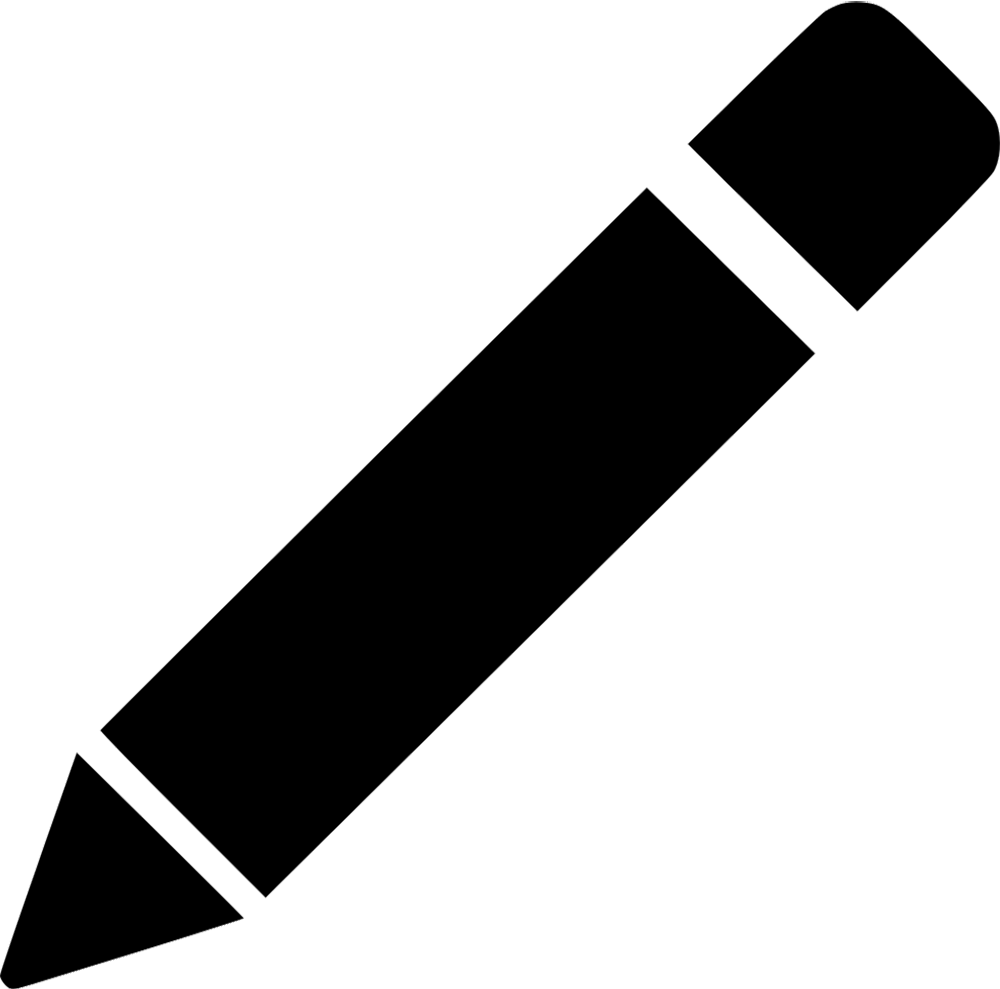
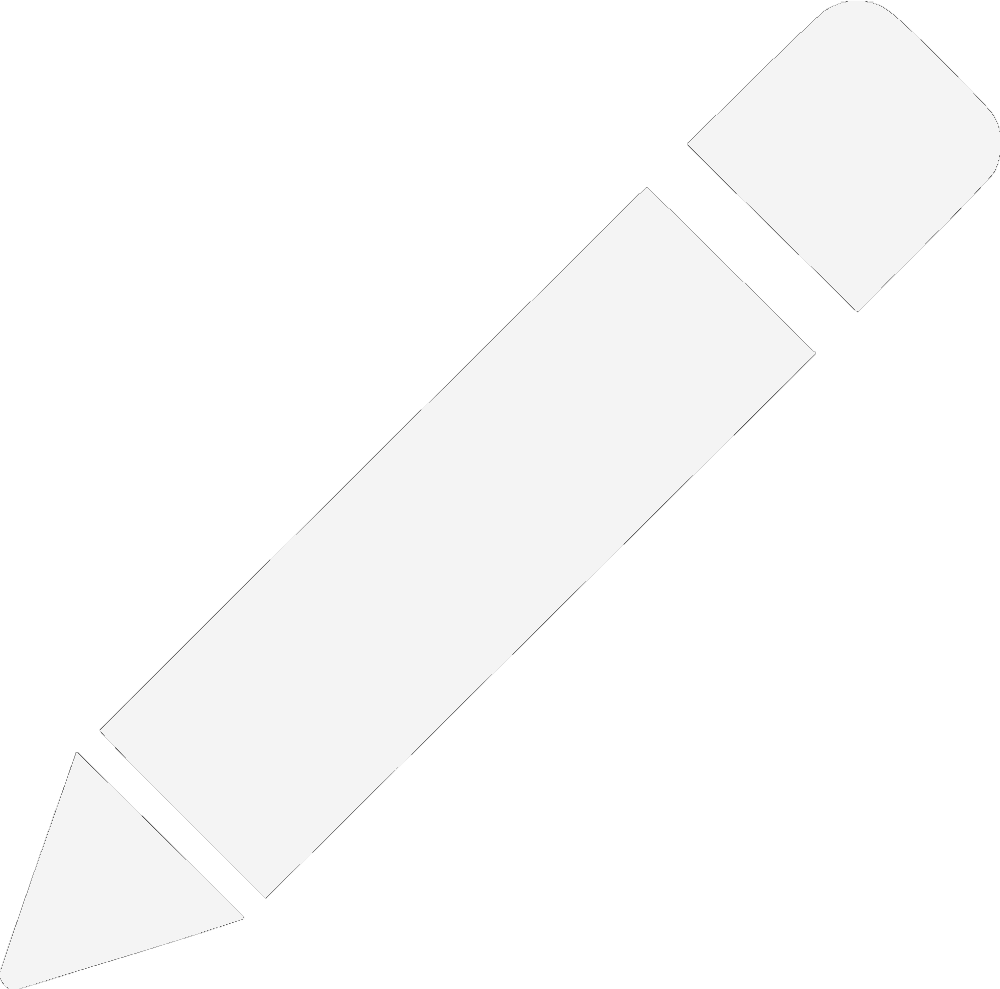
Notes Overlay added

Changed region(s): [[0.0, 0.182, 0.837, 1.0], [0.682, 0.0, 1.0, 0.3337]]

diff --git a/frontend/src/shared/components/Header.tsx b/frontend/src/shared/components/Header.tsx
@@ -1,4 +1,4 @@
-import React, { useEffect, useState } from 'react';
+import React, { useEffect, useState, useRef } from 'react';
 import './Header.scss';
 import { Link, useLocation } from 'react-router-dom';
 import { fetchCurrentUser, changeGuestName } from '../api/draftData';
@@ -47,6 +47,17 @@ function Header() {
   const [newGuestName, setNewGuestName] = useState('');
   const [nameError, setNameError] = useState<string | null>(null);
   const [changingName, setChangingName] = useState(false);
+  const [showNotes, setShowNotes] = useState(false);
+  const [notes, setNotes] = useState('');
+  const [fontSize, setFontSize] = useState(16);
+  const editorRef = useRef<HTMLDivElement>(null);
+
+  const [modalPos, setModalPos] = useState({ x: 0, y: 0 });
+  const [modalSize, setModalSize] = useState({ width: 560, height: 640 });
+  const [isDragging, setIsDragging] = useState(false);
+  const [isResizing, setIsResizing] = useState(false);
+  const [dragOffset, setDragOffset] = useState({ x: 0, y: 0 });
+
   const [isAuctionSoundMuted, setIsAuctionSoundMuted] = useState<boolean>(() => {
     if (typeof window === 'undefined') {
       return true;
@@ -60,6 +71,104 @@ function Header() {
     return localStorage.getItem(HEADER_PINNED_KEY) !== 'false';
   });
   const [isMobileMenuOpen, setIsMobileMenuOpen] = useState(false);
+
+  useEffect(() => {
+    if (user?.user_id) {
+      const savedNotes = localStorage.getItem(`user_notes_${user.user_id}`);
+      setNotes(savedNotes || '');
+
+      const savedFontSize = localStorage.getItem(`user_notes_font_size_${user.user_id}`);
+      if (savedFontSize) {
+        setFontSize(parseInt(savedFontSize, 10));
+      }
+
+      const savedPos = localStorage.getItem(`user_notes_pos_${user.user_id}`);
+      if (savedPos) {
+        try {
+          setModalPos(JSON.parse(savedPos));
+        } catch (e) {
+          console.error("Error loading notes position:", e);
+        }
+      }
+
+      const savedSize = localStorage.getItem(`user_notes_size_${user.user_id}`);
+      if (savedSize) {
+        try {
+          setModalSize(JSON.parse(savedSize));
+        } catch (e) {
+          console.error("Error loading notes size:", e);
+        }
+      }
+    }
+  }, [user?.user_id]);
+
+  useEffect(() => {
+    if (user?.user_id && (modalPos.x !== 0 || modalPos.y !== 0)) {
+      localStorage.setItem(`user_notes_pos_${user.user_id}`, JSON.stringify(modalPos));
+    }
+  }, [modalPos, user?.user_id]);
+
+  useEffect(() => {
+    if (user?.user_id) {
+      localStorage.setItem(`user_notes_size_${user.user_id}`, JSON.stringify(modalSize));
+    }
+  }, [modalSize, user?.user_id]);
+
+  useEffect(() => {
+    if (user?.user_id) {
+      localStorage.setItem(`user_notes_font_size_${user.user_id}`, fontSize.toString());
+    }
+  }, [fontSize, user?.user_id]);
+
+  useEffect(() => {
+    if (user?.user_id) {
+      const timer = setTimeout(() => {
+        localStorage.setItem(`user_notes_${user.user_id}`, notes);
+      }, 500); // Wait for 500ms of inactivity before saving
+
+      return () => clearTimeout(timer);
+    }
+  }, [notes, user?.user_id]);
+
+  useEffect(() => {
+    if (showNotes && modalPos.x === 0 && modalPos.y === 0) {
+      setModalPos({
+        x: (window.innerWidth - modalSize.width) / 2,
+        y: (window.innerHeight - modalSize.height) / 2,
+      });
+    }
+  }, [showNotes, modalSize.width, modalSize.height, modalPos.x, modalPos.y]);
+
+  useEffect(() => {
+    const handleMouseMove = (e: MouseEvent) => {
+      if (isDragging) {
+        setModalPos({
+          x: e.clientX - dragOffset.x,
+          y: e.clientY - dragOffset.y
+        });
+      }
+      if (isResizing) {
+        setModalSize({
+          width: Math.max(320, e.clientX - modalPos.x),
+          height: Math.max(320, e.clientY - modalPos.y)
+        });
+      }
+    };
+
+    const handleMouseUp = () => {
+      setIsDragging(false);
+      setIsResizing(false);
+    };
+
+    if (isDragging || isResizing) {
+      window.addEventListener('mousemove', handleMouseMove);
+      window.addEventListener('mouseup', handleMouseUp);
+    }
+    return () => {
+      window.removeEventListener('mousemove', handleMouseMove);
+      window.removeEventListener('mouseup', handleMouseUp);
+    };
+  }, [isDragging, isResizing, dragOffset, modalPos]);
 
   const toggleAuctionSoundMuted = () => {
     const nextMuted = !isAuctionSoundMuted;
@@ -98,6 +207,11 @@ function Header() {
     } finally {
       setChangingName(false);
     }
+  };
+
+  const handleNotesChange = (e: React.ChangeEvent<HTMLTextAreaElement>) => {
+    const value = e.target.value;
+    setNotes(value);
   };
 
   return (
@@ -244,6 +358,17 @@ function Header() {
               </button>
             </div>
           )}
+          {user && !user.is_guest && (
+            <button
+              type="button"
+              className="headerNotesToggle"
+              onClick={() => setShowNotes(true)}
+              title="Open Notes"
+              aria-label="Open Notes"
+            >
+              <img src="/generic/pencil.png" alt="Notes" />
+            </button>
+          )}
         </nav>
       </div>
       {showNameModal && (
@@ -269,6 +394,85 @@ function Header() {
                 {changingName ? 'Changing...' : 'Change Name'}
               </button>
             </div>
+          </div>
+        </div>
+      )}
+      {showNotes && (
+        <div className="notes-modal-overlay" onClick={() => setShowNotes(false)}>
+          <div 
+            className="notes-modal" 
+            onClick={e => e.stopPropagation()}
+            style={{
+              left: `${modalPos.x}px`,
+              top: `${modalPos.y}px`,
+              width: `${modalSize.width}px`,
+              height: `${modalSize.height}px`,
+            }}
+          >
+            <div className="notes-modal-header" onMouseDown={(e) => {
+              setIsDragging(true);
+              setDragOffset({ x: e.clientX - modalPos.x, y: e.clientY - modalPos.y });
+            }}>
+              <h3 className="notes-modal-title">Notes</h3>
+              <button 
+                className="notes-modal-minimize" 
+                onClick={() => setShowNotes(false)}
+                title="Minimize"
+              >
+                _
+              </button>
+            </div>
+            <div className="notes-toolbar">
+              <button 
+                type="button" 
+                onMouseDown={e => e.preventDefault()} 
+                onClick={() => document.execCommand('bold', false)}
+                title="Bold"
+              >B</button>
+              <button 
+                type="button" 
+                onMouseDown={e => e.preventDefault()} 
+                onClick={() => document.execCommand('italic', false)}
+                title="Italic"
+              >I</button>
+              <button 
+                type="button" 
+                onMouseDown={e => e.preventDefault()} 
+                onClick={() => document.execCommand('underline', false)}
+                title="Underline"
+              >U</button>
+              <select 
+                value={fontSize} 
+                onChange={(e) => setFontSize(parseInt(e.target.value, 10))}
+                title="Font Size"
+              >
+                {[14, 16, 18, 20, 24, 28, 32].map(size => (
+                  <option key={size} value={size}>{size}px</option>
+                ))}
+              </select>
+            </div>
+            <div className="notes-modal-content">
+              <div
+                className="notes-editor"
+                contentEditable
+                suppressContentEditableWarning
+                onInput={(e) => setNotes(e.currentTarget.innerHTML)}
+                onKeyDown={(e) => {
+                  // Stop propagation so Home.tsx space bar listener doesn't trigger
+                  e.stopPropagation();
+                }}
+                style={{ fontSize: `${fontSize}px` }}
+                ref={(el) => {
+                  if (el && !el.innerHTML && notes) {
+                    el.innerHTML = notes;
+                  }
+                }}
+              />
+            </div>
+            <div 
+              className="notes-modal-resizer" 
+              onMouseDown={(e) => { e.stopPropagation(); setIsResizing(true); }}
+            />
           </div>
         </div>
       )}

diff --git a/frontend/src/shared/components/Header.scss b/frontend/src/shared/components/Header.scss
@@ -375,3 +375,150 @@
     }
   }
 }
+
+.headerNotesToggle {
+	width: 2.75rem;
+	height: 2.75rem;
+	background: transparent;
+	border: none;
+	display: flex;
+	align-items: center;
+	justify-content: center;
+	cursor: pointer;
+	padding: 0;
+	margin-left: 0.5rem;
+	transition: opacity 0.2s;
+
+	&:hover {
+		opacity: 0.7;
+	}
+
+	img {
+		width: 1.8rem;
+		height: 1.8rem;
+		object-fit: contain;
+	}
+}
+
+.notes-modal-overlay {
+	position: fixed;
+	top: 0;
+	left: 0;
+	width: 100vw;
+	height: 100vh;
+	background: rgba(0, 0, 0, 0.6);
+	backdrop-filter: blur(2px);
+	z-index: 10000;
+}
+
+.notes-modal {
+	background: $eb-surface;
+	border: 1px solid rgba(255, 255, 255, 0.1);
+	border-radius: 8px;
+	position: absolute;
+	display: flex;
+	flex-direction: column;
+	box-shadow: 0 8px 32px rgba(0, 0, 0, 0.5);
+	overflow: hidden;
+}
+
+.notes-modal-header {
+	padding: 1rem 1.5rem;
+	display: flex;
+	justify-content: space-between;
+	align-items: center;
+	border-bottom: 1px solid rgba(255, 255, 255, 0.1);
+	cursor: move;
+	user-select: none;
+
+	.notes-modal-title {
+		margin: 0;
+		font-size: 1.5rem;
+		color: $eb-text;
+		font-weight: bold;
+		opacity: 0.9;
+	}
+
+	.notes-modal-minimize {
+		background: transparent;
+		border: none;
+		color: $eb-text;
+		font-size: 2rem;
+		cursor: pointer;
+		line-height: 0;
+		padding-bottom: 1.2rem;
+
+		&:hover {
+			color: $eb-primary;
+		}
+	}
+}
+
+.notes-modal-resizer {
+	width: 15px;
+	height: 15px;
+	position: absolute;
+	right: 0;
+	bottom: 0;
+	cursor: nwse-resize;
+	background: linear-gradient(135deg, transparent 50%, rgba(255, 255, 255, 0.2) 50%);
+	border-radius: 0 0 8px 0;
+}
+
+.notes-toolbar {
+	padding: 0.5rem 1rem;
+	display: flex;
+	gap: 0.5rem;
+	align-items: center;
+	border-bottom: 1px solid rgba(255, 255, 255, 0.1);
+	background: rgba(255, 255, 255, 0.05);
+
+	button {
+		background: transparent;
+		border: 1px solid rgba(255, 255, 255, 0.2);
+		color: $eb-text;
+		width: 2.2rem;
+		height: 2.2rem;
+		display: flex;
+		align-items: center;
+		justify-content: center;
+		cursor: pointer;
+		border-radius: 4px;
+		font-weight: bold;
+		transition: all 0.2s;
+
+		&:hover {
+			background: rgba(255, 255, 255, 0.1);
+			border-color: $eb-primary;
+		}
+	}
+
+	select {
+		background: $eb-surface;
+		color: $eb-text;
+		border: 1px solid rgba(255, 255, 255, 0.2);
+		padding: 0.2rem 0.5rem;
+		border-radius: 4px;
+		cursor: pointer;
+		outline: none;
+		margin-left: auto;
+	}
+}
+
+.notes-modal-content {
+	flex: 1;
+	padding: 1.5rem;
+	overflow-y: auto;
+
+	.notes-editor {
+		width: 100%;
+		height: 100%;
+		background: transparent;
+		border: none;
+		color: $eb-text;
+		font-family: inherit;
+		outline: none;
+		line-height: 1.6;
+		min-height: 100%;
+	}
+}
